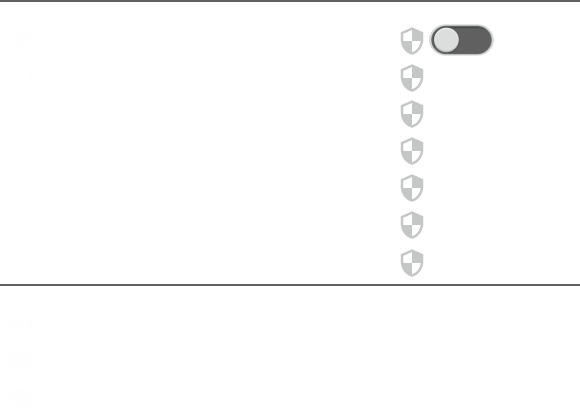
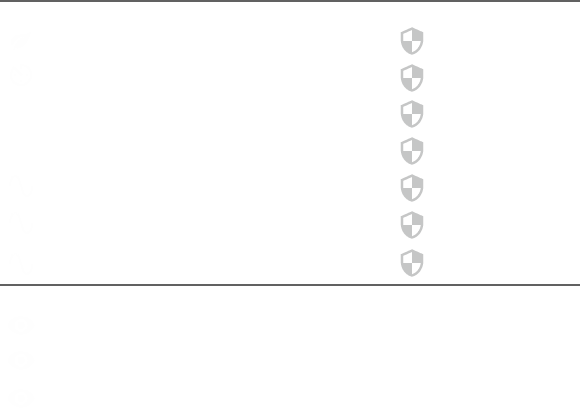
Switch FINISHED

Changed region(s): [[0.7138, 0.058, 0.869, 0.1449]]

diff --git a/templates/DirectMenu/Main2.html b/templates/DirectMenu/Main2.html
@@ -1,0 +1,105 @@
+{% extends 'Base.html' %}
+
+{% block title %}
+<title>Главный экран</title>
+{% endblock %}
+
+{% block a %}
+a {
+    width: 140px;
+    height: 40px;
+}
+{% endblock %}
+
+{% block htmlstyle %}
+html {
+    height: 480px;
+}
+{% endblock %}
+
+{% block bodystyle %}
+body {
+    height: 480px;
+}
+{% endblock %}
+
+{% block buttons %}
+.buttons {
+    width: 140px;
+    height: 40px;
+    display: flex;
+    flex-direction: column;
+}
+{% endblock %}
+
+{% block interface %}
+<img class="pointereventnone" src="{{ url_for('static', filename='Main/SystemPump.png') }}" draggable="false" style="position: absolute; top: 335px; left: 0px;"/>
+<img class="pointereventnone" src="{{ url_for('static', filename='Main/Info.png') }}" draggable="false" style="position: absolute; top: 330px; left: 8px;"/>
+<img class="pointereventnone" src="{{ url_for('static', filename='Main/stop_icon.png') }}" draggable="false" style="position: absolute; top: 5px; left: 635px;"/>
+<a href="/Main3"><img src="{{ url_for('static', filename='Main/indicator_1.png') }}" draggable="false" style="position: absolute; top: 5px; left: 150px;"/></a>
+<img id="Switch1" src="{{ url_for('static', filename='Interactive/ON.png') }}" onclick="changeImage1()" style="position: absolute; top: 140px; left: 190px;">
+<img id="Switch2" src="{{ url_for('static', filename='Interactive/ON.png') }}" onclick="changeImage2()" style="position: absolute; top: 140px; left: 290px;">
+<img id="Switch3" src="{{ url_for('static', filename='Interactive/ON.png') }}" onclick="changeImage3()" style="position: absolute; top: 140px; left: 390px;">
+<img id="Switch4" src="{{ url_for('static', filename='Interactive/ON.png') }}" onclick="changeImage4()" style="position: absolute; top: 140px; left: 490px;">
+<img id="Switch5" src="{{ url_for('static', filename='Interactive/ON.png') }}" onclick="changeImage5()" style="position: absolute; top: 140px; left: 590px;">
+<img id="Switch6" src="{{ url_for('static', filename='Interactive/ON.png') }}" onclick="changeImage6()" style="position: absolute; top: 140px; left: 690px;">
+{% endblock %}
+
+{% block page_script %}
+<script>
+function changeImage1() {
+  var image = document.getElementById('Switch1');
+  if (image.src.match("/static/Interactive/ON.png")) {
+    image.src = "/static/Interactive/OFF.png";
+  } else {
+    image.src = "/static/Interactive/ON.png";
+  }
+}
+function changeImage2() {
+  var image = document.getElementById('Switch2');
+  if (image.src.match("/static/Interactive/ON.png")) {
+    image.src = "/static/Interactive/OFF.png";
+  } else {
+    image.src = "/static/Interactive/ON.png";
+  }
+}
+function changeImage3() {
+  var image = document.getElementById('Switch3');
+  if (image.src.match("/static/Interactive/ON.png")) {
+    image.src = "/static/Interactive/OFF.png";
+  } else {
+    image.src = "/static/Interactive/ON.png";
+  }
+}
+function changeImage4() {
+  var image = document.getElementById('Switch4');
+  if (image.src.match("/static/Interactive/ON.png")) {
+    image.src = "/static/Interactive/OFF.png";
+  } else {
+    image.src = "/static/Interactive/ON.png";
+  }
+}
+function changeImage5() {
+  var image = document.getElementById('Switch5');
+  if (image.src.match("/static/Interactive/ON.png")) {
+    image.src = "/static/Interactive/OFF.png";
+  } else {
+    image.src = "/static/Interactive/ON.png";
+  }
+}
+function changeImage6() {
+  var image = document.getElementById('Switch6');
+  if (image.src.match("/static/Interactive/ON.png")) {
+    image.src = "/static/Interactive/OFF.png";
+  } else {
+    image.src = "/static/Interactive/ON.png";
+  }
+}
+</script>
+{% endblock %}
+
+{% block body %}
+<a href="/SetpointPlanner"><img src="{{ url_for('static', filename='Main/Settings.png') }}"/></a>
+
+<div id="clock"></div>
+{% endblock %}

diff --git a/templates/DirectMenu/Main1.html b/templates/DirectMenu/Main1.html
@@ -36,34 +36,7 @@ body {
 <img class="pointereventnone" src="{{ url_for('static', filename='Main/SystemPump.png') }}" draggable="false" style="position: absolute; top: 335px; left: 0px;"/>
 <img class="pointereventnone" src="{{ url_for('static', filename='Main/Info.png') }}" draggable="false" style="position: absolute; top: 330px; left: 8px;"/>
 <img class="pointereventnone" src="{{ url_for('static', filename='Main/stop_icon.png') }}" draggable="false" style="position: absolute; top: 5px; left: 635px;"/>
-<a href="/Main1"><img src="{{ url_for('static', filename='Main/indicator_0.png') }}" draggable="false" style="position: absolute; top: 5px; left: 150px;"/></a>
-<img id="Switch" src="{{ url_for('static', filename='Main/red.png') }}" onclick="changeImage()" style="position: absolute; top: 43px; left: 743px;">
-{% endblock %}
-
-{% block page_script %}
-<script>
-function changeImage() {
-  var image = document.getElementById('Switch');
-  if (image.src.match("/static/Main/red.png")) {
-    image.src = "/static/Main/blue.png";
-  }
-  else if (image.src.match("/static/Main/blue.png")) {
-    image.src = "/static/Main/green.png";
-  }
-  else if (image.src.match("/static/Main/green.png")) {
-    image.src = "/static/Main/pink.png";
-  }
-  else if (image.src.match("/static/Main/pink.png")) {
-    image.src = "/static/Main/orange.png";
-  }
-  else if (image.src.match("/static/Main/orange.png")) {
-    image.src = "/static/Main/yellow.png";
-  }
-  else if (image.src.match("/static/Main/yellow.png")) {
-    image.src = "/static/Main/red.png";
-  }
-}
-</script>
+<a href="/Main2"><img src="{{ url_for('static', filename='Main/indicator_1.png') }}" draggable="false" style="position: absolute; top: 5px; left: 150px;"/></a>
 {% endblock %}
 
 {% block body %}

diff --git a/templates/DirectMenu/Main3.html b/templates/DirectMenu/Main3.html
@@ -36,34 +36,7 @@ body {
 <img class="pointereventnone" src="{{ url_for('static', filename='Main/SystemPump.png') }}" draggable="false" style="position: absolute; top: 335px; left: 0px;"/>
 <img class="pointereventnone" src="{{ url_for('static', filename='Main/Info.png') }}" draggable="false" style="position: absolute; top: 330px; left: 8px;"/>
 <img class="pointereventnone" src="{{ url_for('static', filename='Main/stop_icon.png') }}" draggable="false" style="position: absolute; top: 5px; left: 635px;"/>
-<a href="/Main1"><img src="{{ url_for('static', filename='Main/indicator_0.png') }}" draggable="false" style="position: absolute; top: 5px; left: 150px;"/></a>
-<img id="Switch" src="{{ url_for('static', filename='Main/red.png') }}" onclick="changeImage()" style="position: absolute; top: 43px; left: 743px;">
-{% endblock %}
-
-{% block page_script %}
-<script>
-function changeImage() {
-  var image = document.getElementById('Switch');
-  if (image.src.match("/static/Main/red.png")) {
-    image.src = "/static/Main/blue.png";
-  }
-  else if (image.src.match("/static/Main/blue.png")) {
-    image.src = "/static/Main/green.png";
-  }
-  else if (image.src.match("/static/Main/green.png")) {
-    image.src = "/static/Main/pink.png";
-  }
-  else if (image.src.match("/static/Main/pink.png")) {
-    image.src = "/static/Main/orange.png";
-  }
-  else if (image.src.match("/static/Main/orange.png")) {
-    image.src = "/static/Main/yellow.png";
-  }
-  else if (image.src.match("/static/Main/yellow.png")) {
-    image.src = "/static/Main/red.png";
-  }
-}
-</script>
+<a href="/"><img src="{{ url_for('static', filename='Main/indicator_2.png') }}" draggable="false" style="position: absolute; top: 5px; left: 150px;"/></a>
 {% endblock %}
 
 {% block body %}

diff --git a/templates/DirectOptionsStation/PumpParametersInGeneral.html b/templates/DirectOptionsStation/PumpParametersInGeneral.html
@@ -51,7 +51,30 @@ body {
 {% endblock %}
 
 {% block interface %}
-<img src="{{ url_for('static', filename='OptionsStation/interface_3.png') }}" style="position: absolute; top: 80px; left: 210px;"/>
+<img class="pointereventnone" src="{{ url_for('static', filename='OptionsStation/interface_3.png') }}" style="position: absolute; top: 80px; left: 210px;"/>
+<img id="Switch1" src="{{ url_for('static', filename='Interactive/Switch-0.png') }}" onclick="changeImage1()" style="position: absolute; top: 158px; left: 640px;">
+<img id="Switch2" src="{{ url_for('static', filename='Interactive/Switch-0.png') }}" onclick="changeImage2()" style="position: absolute; top: 200px; left: 640px;">
+{% endblock %}
+
+{% block page_script %}
+<script>
+function changeImage1() {
+  var image = document.getElementById('Switch1');
+  if (image.src.match("/static/Interactive/Switch-0.png")) {
+    image.src = "/static/Interactive/Switch-1.png";
+  } else {
+    image.src = "/static/Interactive/Switch-0.png";
+  }
+}
+function changeImage2() {
+  var image = document.getElementById('Switch2');
+  if (image.src.match("/static/Interactive/Switch-0.png")) {
+    image.src = "/static/Interactive/Switch-1.png";
+  } else {
+    image.src = "/static/Interactive/Switch-0.png";
+  }
+}
+</script>
 {% endblock %}
 
 {% block body %}

diff --git a/templates/DirectEngineeringMenu/Backup.html b/templates/DirectEngineeringMenu/Backup.html
@@ -33,9 +33,22 @@ body {
 {% endblock %}
 
 {% block interface %}
-<img src="{{ url_for('static', filename='PanelSettings/interface.png') }}" draggable="false" style="position: absolute; top: 40px; left: 210px;"/>
+<img class="pointereventnone" src="{{ url_for('static', filename='PanelSettings/interface.png') }}" draggable="false" style="position: absolute; top: 60px; left: 210px;"/>
+<img id="Switch" src="{{ url_for('static', filename='Interactive/Switch-0.png') }}" onclick="changeImage()" style="position: absolute; top: 140px; left: 635px;">
 {% endblock %}
 
+{% block page_script %}
+<script>
+function changeImage() {
+  var image = document.getElementById('Switch');
+  if (image.src.match("/static/Interactive/Switch-0.png")) {
+    image.src = "/static/Interactive/Switch-1.png";
+  } else {
+    image.src = "/static/Interactive/Switch-0.png";
+  }
+}
+</script>
+{% endblock %}
 {% block body %}
 <a href="/"><img src="{{ url_for('static', filename='EngineeringMenu/MainScreen.png') }}"/></a>
 <a href="/SetpointPlanner"><img src="{{ url_for('static', filename='EngineeringMenu/Back.png') }}"/></a>

diff --git a/templates/DirectEngineeringMenu/SettingsPID.html b/templates/DirectEngineeringMenu/SettingsPID.html
@@ -33,7 +33,21 @@ body {
 {% endblock %}
 
 {% block interface %}
-<img src="{{ url_for('static', filename='PID/interface.png') }}" draggable="false" style="position: absolute; top: 40px; left: 210px;"/>
+<img class="pointereventnone" src="{{ url_for('static', filename='PID/interface.png') }}" draggable="false" style="position: absolute; top: 40px; left: 210px;"/>
+<img id="Switch" src="{{ url_for('static', filename='Interactive/Switch-0.png') }}" onclick="changeImage()" style="position: absolute; top: 197px; left: 635px;">
+{% endblock %}
+
+{% block page_script %}
+<script>
+function changeImage() {
+  var image = document.getElementById('Switch');
+  if (image.src.match("/static/Interactive/Switch-0.png")) {
+    image.src = "/static/Interactive/Switch-1.png";
+  } else {
+    image.src = "/static/Interactive/Switch-0.png";
+  }
+}
+</script>
 {% endblock %}
 
 {% block body %}

diff --git a/templates/DirectOptionsStation/Options.html b/templates/DirectOptionsStation/Options.html
@@ -51,7 +51,21 @@ body {
 {% endblock %}
 
 {% block interface %}
-<img src="{{ url_for('static', filename='OptionsStation/interface_6.png') }}" style="position: absolute; top: 40px; left: 210px;"/>
+<img class="pointereventnone" src="{{ url_for('static', filename='OptionsStation/interface_6.png') }}" style="position: absolute; top: 40px; left: 210px;"/>
+<img id="Switch" src="{{ url_for('static', filename='Interactive/Switch-0.png') }}" onclick="changeImage()" style="position: absolute; top: 65px; left: 640px;">
+{% endblock %}
+
+{% block page_script %}
+<script>
+function changeImage() {
+  var image = document.getElementById('Switch');
+  if (image.src.match("/static/Interactive/Switch-0.png")) {
+    image.src = "/static/Interactive/Switch-1.png";
+  } else {
+    image.src = "/static/Interactive/Switch-0.png";
+  }
+}
+</script>
 {% endblock %}
 
 {% block body %}

diff --git a/templates/DirectOptionsStation/EmergencyModes.html b/templates/DirectOptionsStation/EmergencyModes.html
@@ -51,7 +51,21 @@ body {
 {% endblock %}
 
 {% block interface %}
-<img src="{{ url_for('static', filename='OptionsStation/interface_7.png') }}" style="position: absolute; top: 30px; left: 210px;"/>
+<img class="pointereventnone" src="{{ url_for('static', filename='OptionsStation/interface_7.png') }}" style="position: absolute; top: 30px; left: 210px;"/>
+<img id="Switch" src="{{ url_for('static', filename='Interactive/_NO_YES.png') }}" onclick="changeImage()" style="position: absolute; top: 422px; left: 610px;">
+{% endblock %}
+
+{% block page_script %}
+<script>
+function changeImage() {
+  var image = document.getElementById('Switch');
+  if (image.src.match("/static/Interactive/_NO_YES.png")) {
+    image.src = "/static/Interactive/_YES_NO.png";
+  } else {
+    image.src = "/static/Interactive/_NO_YES.png";
+  }
+}
+</script>
 {% endblock %}
 
 {% block body %}

diff --git a/templates/DirectMenu/SetpointPlanner.html b/templates/DirectMenu/SetpointPlanner.html
@@ -33,7 +33,7 @@ html {
 {% endblock %}
 
 {% block interface %}
-<img src="{{ url_for('static', filename='SetpointPlanner/interface.png') }}" draggable="false" style="position: absolute; top: 15px; left: 200px;"/>
+<img class="pointereventnone" src="{{ url_for('static', filename='SetpointPlanner/interface.png') }}" draggable="false" style="position: absolute; top: 15px; left: 200px;"/>
 {% endblock %}
 
 {% block body %}

diff --git a/templates/DirectMenu/Contacts.html b/templates/DirectMenu/Contacts.html
@@ -33,7 +33,7 @@ html {
 {% endblock %}
 
 {% block interface %}
-<img src="{{ url_for('static', filename='Contacts/interface.png') }}" draggable="false" style="position: absolute; top: 40px; left: 210px;"/>
+<img class="pointereventnone" src="{{ url_for('static', filename='Contacts/interface.png') }}" draggable="false" style="position: absolute; top: 40px; left: 210px;"/>
 {% endblock %}
 
 {% block body %}

diff --git a/templates/DirectEngineeringMenu/PLC.html b/templates/DirectEngineeringMenu/PLC.html
@@ -33,7 +33,7 @@ body {
 {% endblock %}
 
 {% block interface %}
-<img src="{{ url_for('static', filename='PLC/interface.png') }}" draggable="false" style="position: absolute; top: 10px; left: 230px;"/>
+<img class="pointereventnone" src="{{ url_for('static', filename='PLC/interface.png') }}" draggable="false" style="position: absolute; top: 10px; left: 230px;"/>
 {% endblock %}
 
 {% block body %}

diff --git a/templates/DirectOptionsStation/EngineParameters.html b/templates/DirectOptionsStation/EngineParameters.html
@@ -51,7 +51,7 @@ body {
 {% endblock %}
 
 {% block interface %}
-<img src="{{ url_for('static', filename='OptionsStation/interface_1.png') }}" style="position: absolute; top: 40px; left: 210px;"/>
+<img class="pointereventnone" src="{{ url_for('static', filename='OptionsStation/interface_1.png') }}" style="position: absolute; top: 40px; left: 210px;"/>
 {% endblock %}
 
 {% block body %}
